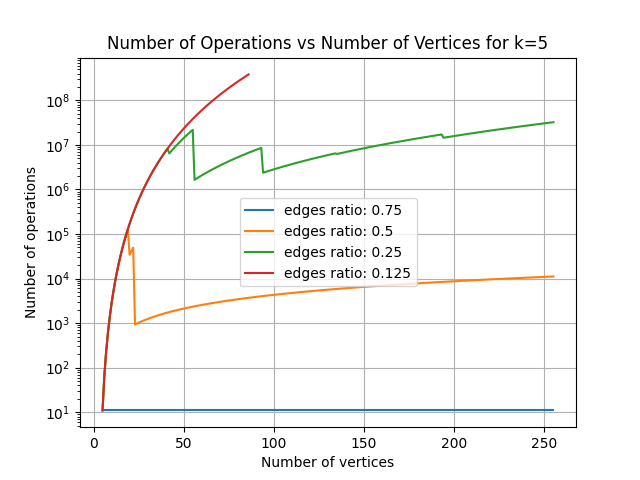
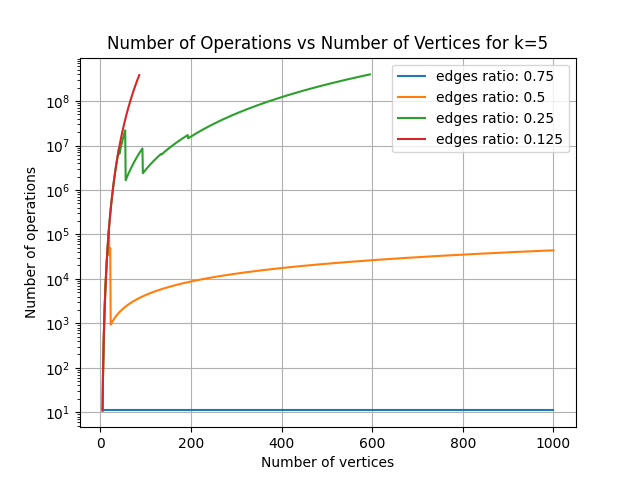
coisas

diff --git a/src/plot_data.py b/src/plot_data.py
@@ -9,12 +9,20 @@ def plot_number_operations_vs_number_of_vertices(
     for max_edges in EDGES_DENSITY:
         x = []
         y = []
-        for size in range(k, 256):
+        for size in range(k, 300):
             try:
                 y.append(results[k][max_edges][size]["operations_count"])
             except KeyError:
                 break
             x.append(size)
+
+        for size in range(300, 1001, 5):
+            try:
+                y.append(results[k][max_edges][size]["operations_count"])
+            except KeyError:
+                break
+            x.append(size)
+
         if log:
             plt.semilogy(x, y, label=f"edges ratio: {max_edges}")
         else:
@@ -42,7 +50,14 @@ def plot_time_vs_number_of_vertices(
     for max_edges in EDGES_DENSITY:
         x = []
         y = []
-        for size in range(k, 256):
+        for size in range(k, 300):
+            try:
+                y.append(results[k][max_edges][size]["time"])
+            except KeyError:
+                break
+            x.append(size)
+
+        for size in range(300, 1001, 5):
             try:
                 y.append(results[k][max_edges][size]["time"])
             except KeyError:
@@ -72,12 +87,20 @@ def plot_number_of_solutions_tested_vs_graph_size(
     for max_edges in EDGES_DENSITY:
         x = []
         y = []
-        for size in range(k, 256):
+        for size in range(k, 300):
             try:
                 y.append(results[k][max_edges][size]["solution_tested"])
             except KeyError:
                 break
             x.append(size)
+
+        for size in range(300, 1001, 5):
+            try:
+                y.append(results[k][max_edges][size]["solution_tested"])
+            except KeyError:
+                break
+            x.append(size)
+
         if log:
             plt.semilogy(x, y, label=f"edges ratio: {max_edges}")
         else:
